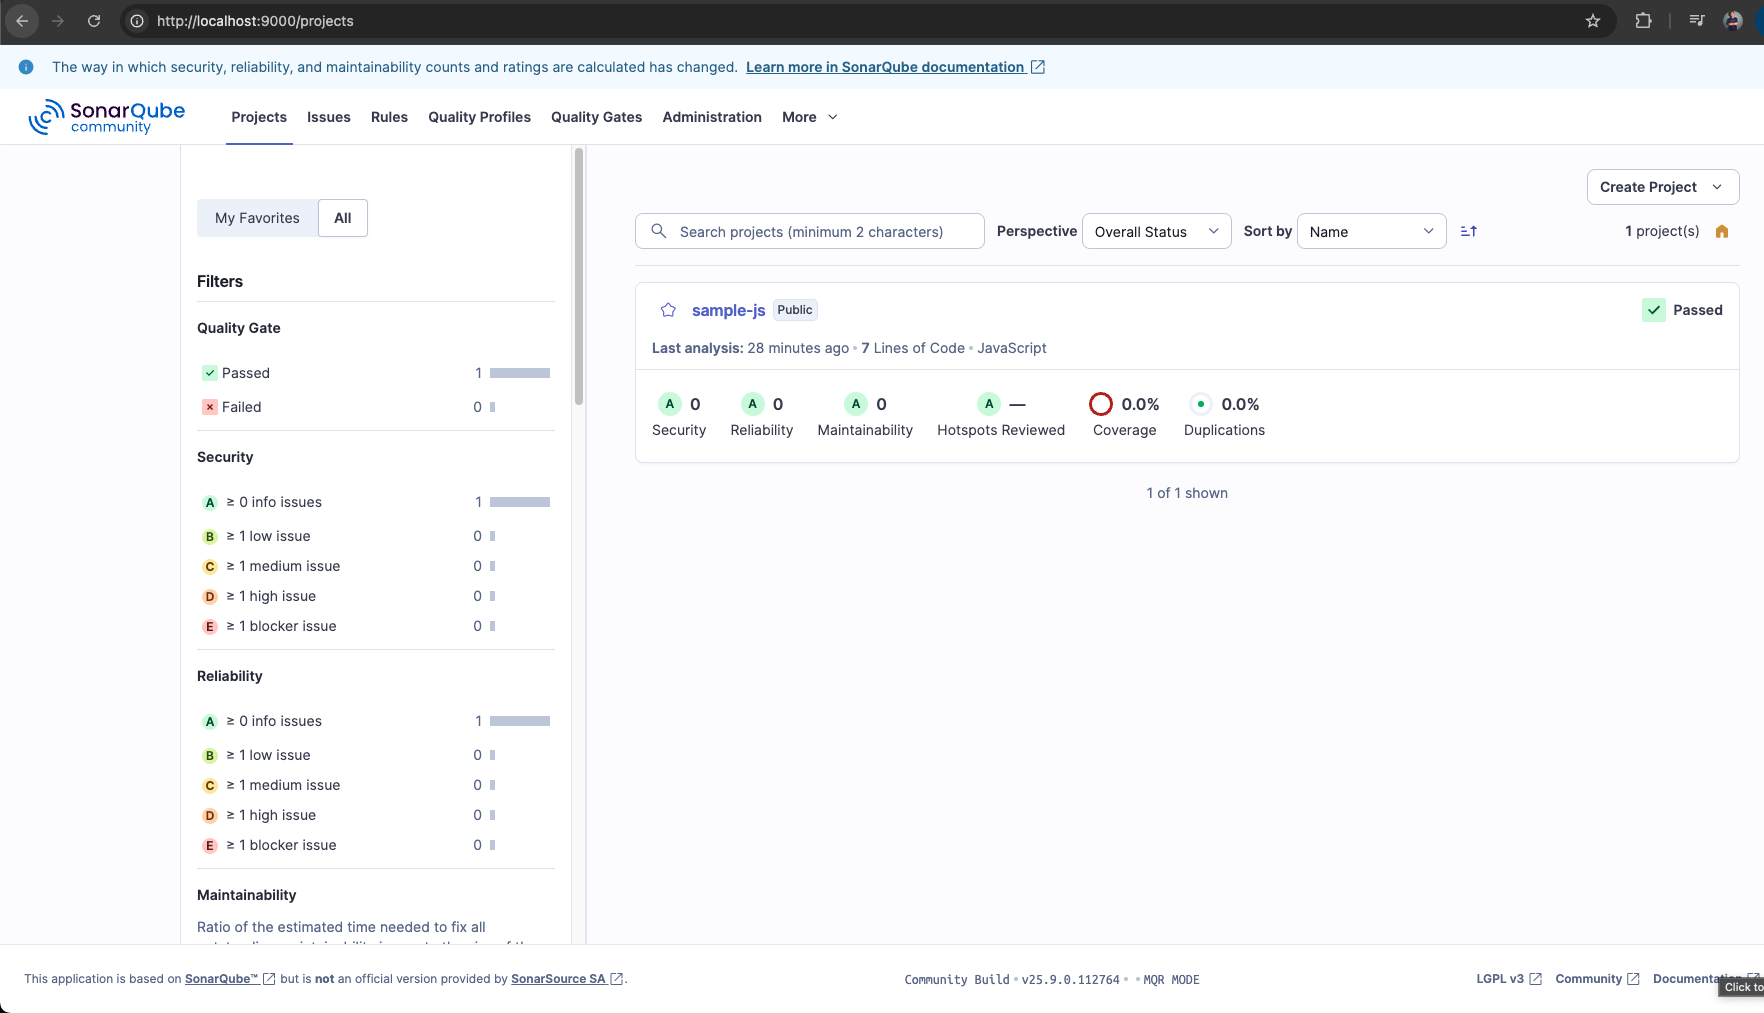
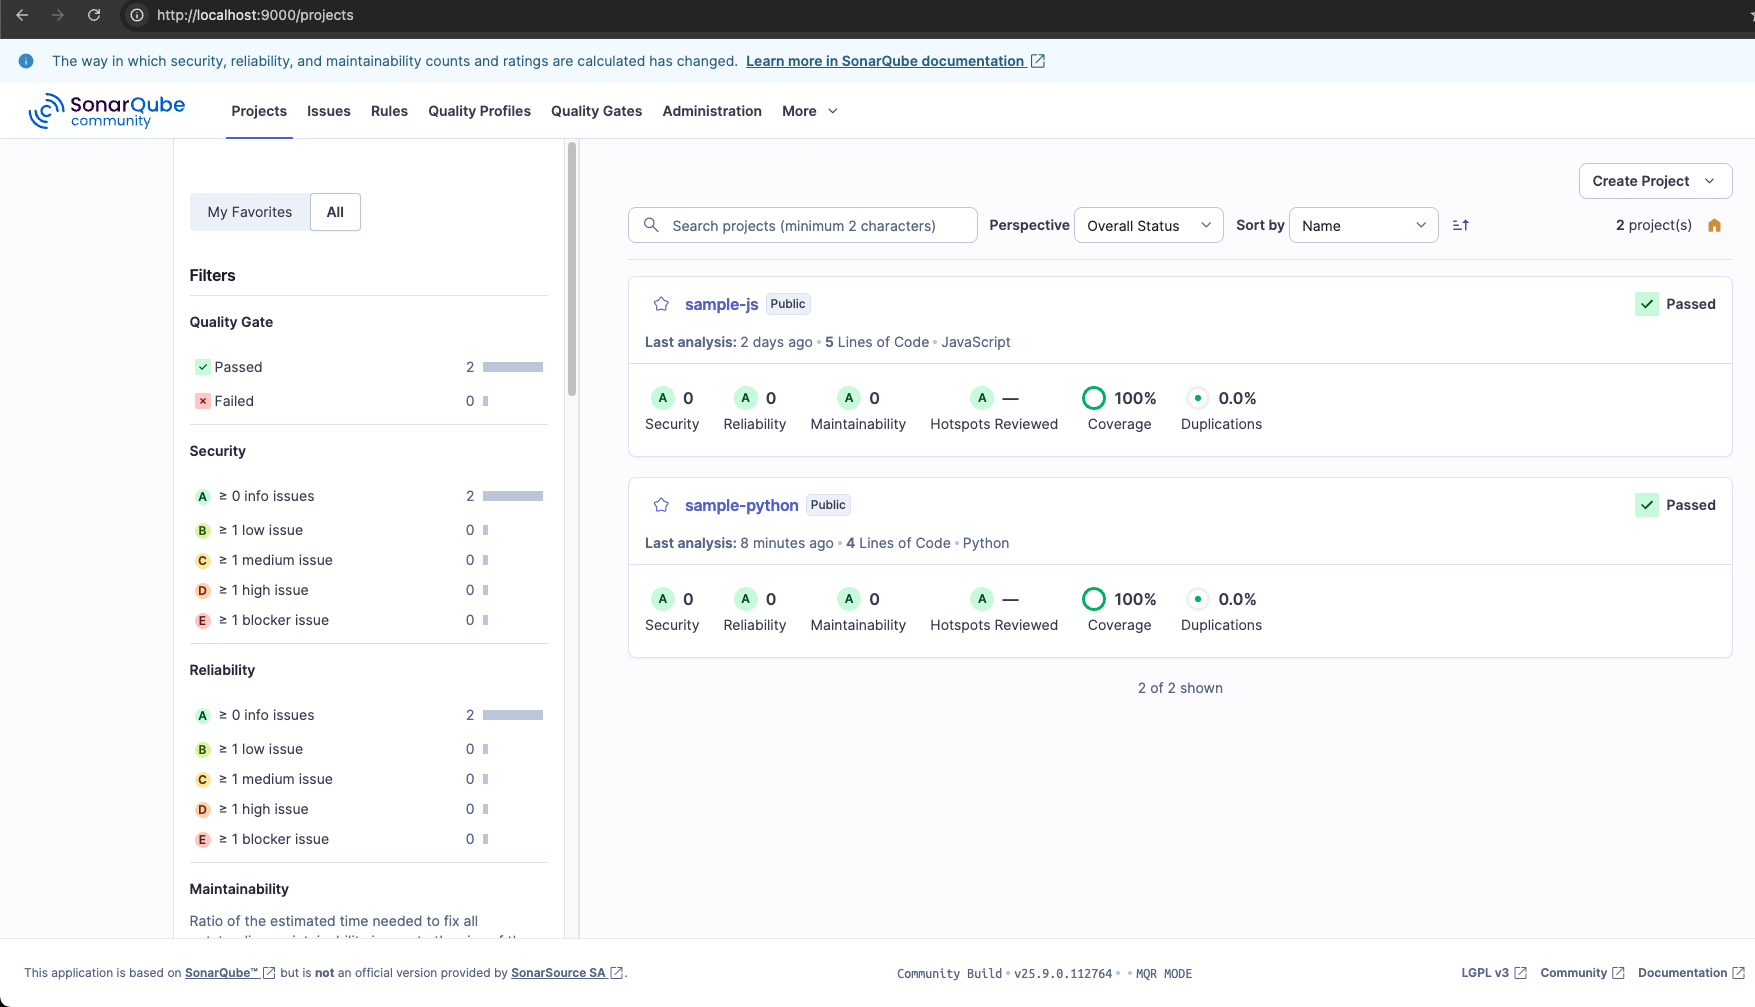
chore: add python sample (#1)
* chore: add python sample

* chore: modify README

diff --git a/sample-python/tests/test_main.py b/sample-python/tests/test_main.py
@@ -1,0 +1,6 @@
+from src.main import main
+
+def test_main(capsys):
+    main()
+    captured = capsys.readouterr()
+    assert captured.out == "Hello, World!\n"

diff --git a/sample-python/src/main.py b/sample-python/src/main.py
@@ -1,0 +1,5 @@
+def main():
+    print("Hello, World!")
+
+if __name__ == "__main__": # pragma: no cover
+    main()

diff --git a/README.md b/README.md
@@ -18,6 +18,13 @@ The SonarQube Server is community version (25.9.0), so we need branch plugin to 
 - Generate sonar token on administration page, change the sonar token in the .env file
 - Run `make scan-js`
 
+## Collecting the coverage
+- For javascript, straightforward running the test using jest, `npm run test:coverage`
+- For python, using pytest & coverage
+    - `coverage run -m pytest`
+    - `coverage report -m`
+    - `coverage xml`
+
 # SonarQube Result
 Go to http://localhost:9000, you should see the project sample-js on the dashboard
 
